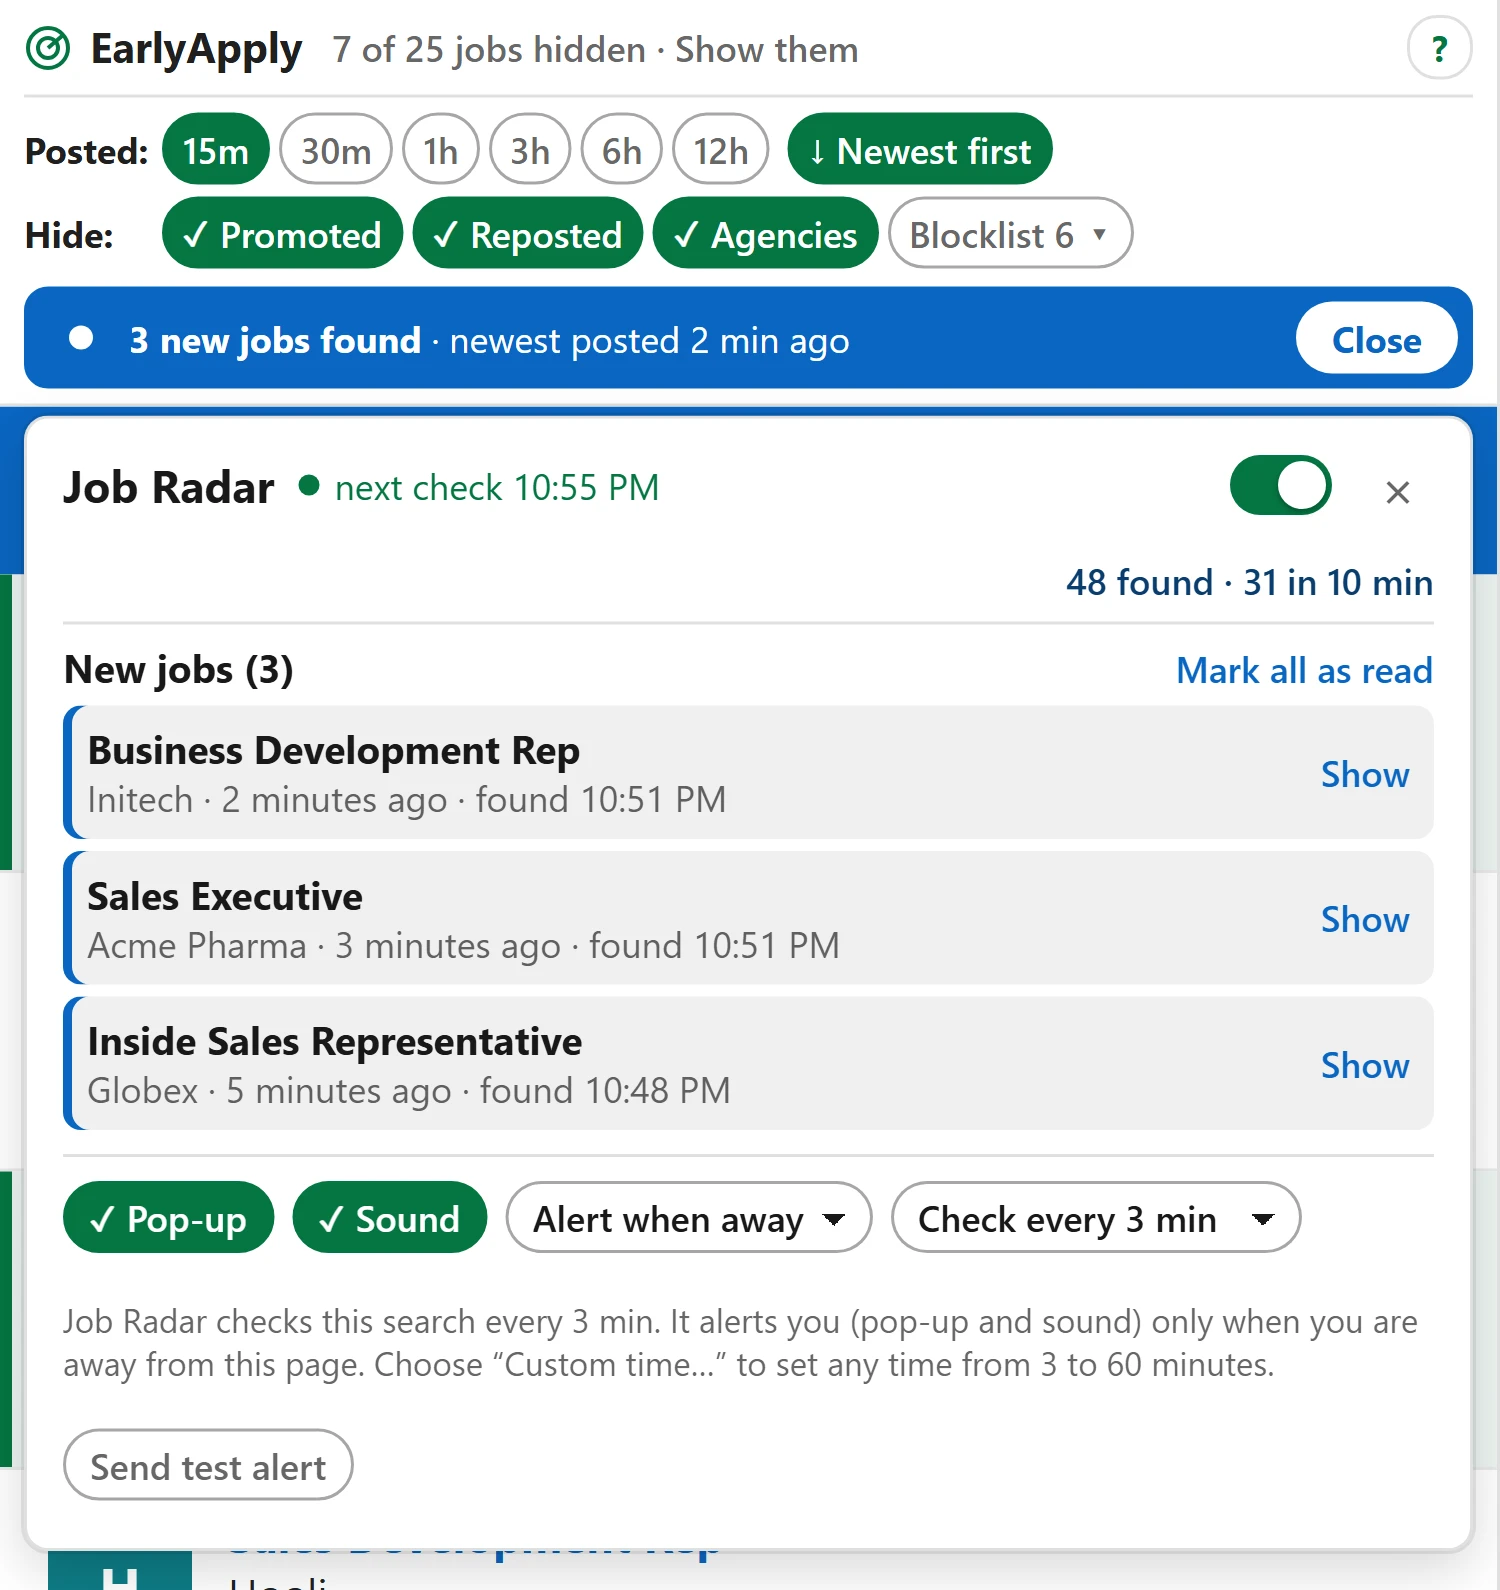
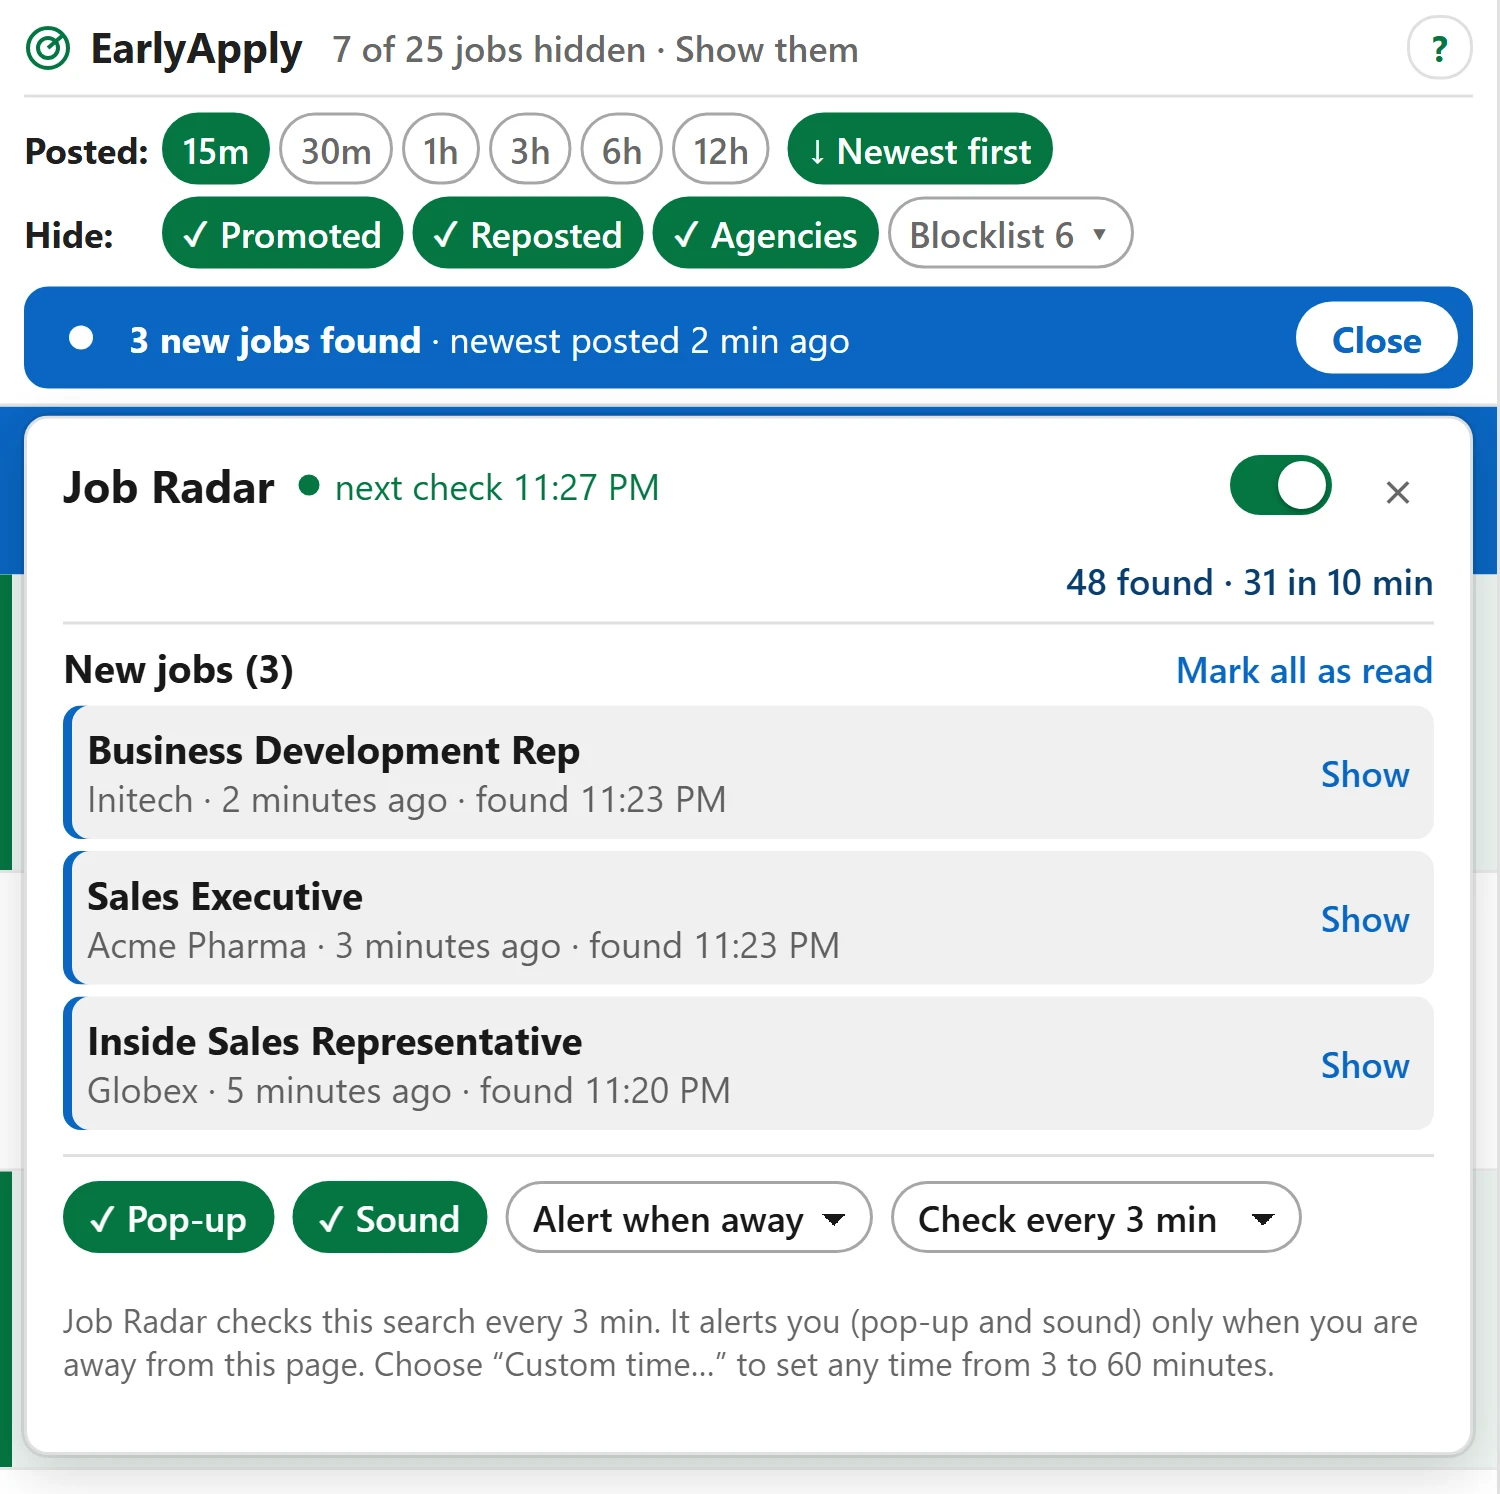
No 'Send test alert' in public texts or pictures (the store version has no such button)

diff --git a/how-to-use-earlyapply.html b/how-to-use-earlyapply.html
@@ -40,7 +40,7 @@
   {
    "@type": "Question",
    "name": "Why do I see no alerts from Job Radar?",
-   "acceptedAnswer": { "@type": "Answer", "text": "Open Windows Settings, then System, then Notifications, and turn on Google Chrome. Then press Send test alert in the EarlyApply popup. Chrome must also be open for Job Radar to check." }
+   "acceptedAnswer": { "@type": "Answer", "text": "Open Windows Settings, then System, then Notifications, and turn on Google Chrome. Chrome must also be open for Job Radar to check." }
   },
   {
    "@type": "Question",
@@ -141,7 +141,7 @@
     <h3>5. Job Radar: alerts for new jobs</h3>
     <p>Click <strong>Job Radar</strong>. It watches your search and alerts you the minute a new job is posted. Choose how often it checks (3 minutes to 1 hour), and turn the pop-up or sound on or off.</p>
     <figure class="shot" style="margin: 10px 0 26px">
-      <picture><source srcset="img/g-radar.webp" type="image/webp"><img loading="lazy" src="img/g-radar.webp" alt="The Job Radar panel with new jobs, alert settings and check time" width="1500" height="1590"></picture>
+      <picture><source srcset="img/g-radar.webp" type="image/webp"><img loading="lazy" src="img/g-radar.webp" alt="The Job Radar panel with new jobs, alert settings and check time" width="1500" height="1494"></picture>
       <figcaption>The Job Radar panel.</figcaption>
     </figure>
     <figure class="shot" style="margin: 10px 0 26px">
@@ -177,7 +177,7 @@
     <h2>If something does not work</h2>
     <ul>
       <li><strong>No bar:</strong> search a job title on LinkedIn Jobs first. It does not show on the feed or a single job page.</li>
-      <li><strong>No alerts:</strong> turn on Google Chrome in Windows Settings › Notifications, then press <em>Send test alert</em> in the popup.</li>
+      <li><strong>No alerts:</strong> turn on Google Chrome in Windows Settings › Notifications, and turn off Focus assist. Chrome must be open.</li>
       <li><strong>Radar not checking:</strong> keep Chrome open. If you close its pinned LinkedIn tab, Radar reopens it.</li>
       <li><strong>Old jobs on the new AI search:</strong> use <strong>★ Newest jobs</strong>, or the <a href="linkedin-classic-job-search.html">classic search</a>.</li>
       <li><strong>Anything else:</strong> email <a href="https://mail.google.com/mail/?view=cm&fs=1&to=connect.earlyapply@gmail.com&su=EarlyApply%20help" target="_blank" rel="noopener">connect.earlyapply@gmail.com</a>. We read every message.</li>
@@ -195,7 +195,7 @@
 
     <h2>Questions</h2>
     <details><summary>I installed EarlyApply. Where is it?</summary><p>Open LinkedIn Jobs and search for a job title. The EarlyApply bar appears above the job list. It does not show on the LinkedIn feed or on a single job page.</p></details>
-    <details><summary>Why do I see no alerts from Job Radar?</summary><p>Open Windows Settings, then System, then Notifications, and turn on Google Chrome. Then press Send test alert in the EarlyApply popup. Chrome must also be open for Job Radar to check.</p></details>
+    <details><summary>Why do I see no alerts from Job Radar?</summary><p>Open Windows Settings, then System, then Notifications, and turn on Google Chrome. Chrome must also be open for Job Radar to check.</p></details>
     <details><summary>Why does the bar say "Nothing to hide on this page"?</summary><p>EarlyApply checked every job on the page and none was promoted, reposted, from a staffing agency or older than your time. Nothing needed hiding.</p></details>
     <details><summary>Is EarlyApply free, and does it collect my data?</summary><p>It is free, needs no account, and has no tracking and no server. It reads the job list only in your browser.</p></details>
 

diff --git a/bye.html b/bye.html
@@ -134,9 +134,9 @@
         body: 'Hi,\n\nWhat I expected EarlyApply to do:\n\nWhat I saw after installing it:\n\nThanks'
       },
       "Job Radar alerts didn't come": {
-        head: 'Most often Windows is blocking Chrome alerts.', text: 'Turn on Google Chrome in Settings > Notifications, then press "Send test alert" in the EarlyApply popup.', mail: 'Still no alerts? Email us',
+        head: 'Most often Windows is blocking Chrome alerts.', text: 'Turn on Google Chrome in Settings > Notifications. Then try again. Still nothing? Email us.', mail: 'Still no alerts? Email us',
         subject: 'EarlyApply: Job Radar alerts did not come',
-        body: 'Hi,\n\nJob Radar alerts did not come.\n\nComputer (Windows or Mac):\nBrowser (Chrome or Edge):\nDid "Send test alert" show a notification? (yes or no):\nMy search (keywords and location):\n\nThanks'
+        body: 'Hi,\n\nJob Radar alerts did not come.\n\nComputer (Windows or Mac):\nBrowser (Chrome or Edge):\nDo other Chrome sites show notifications on this computer? (yes or no):\nMy search (keywords and location):\n\nThanks'
       },
       'Something else': {
         head: 'Tell us more in the box below, or email us.', text: 'We reply to every email.', mail: 'Write an email',
